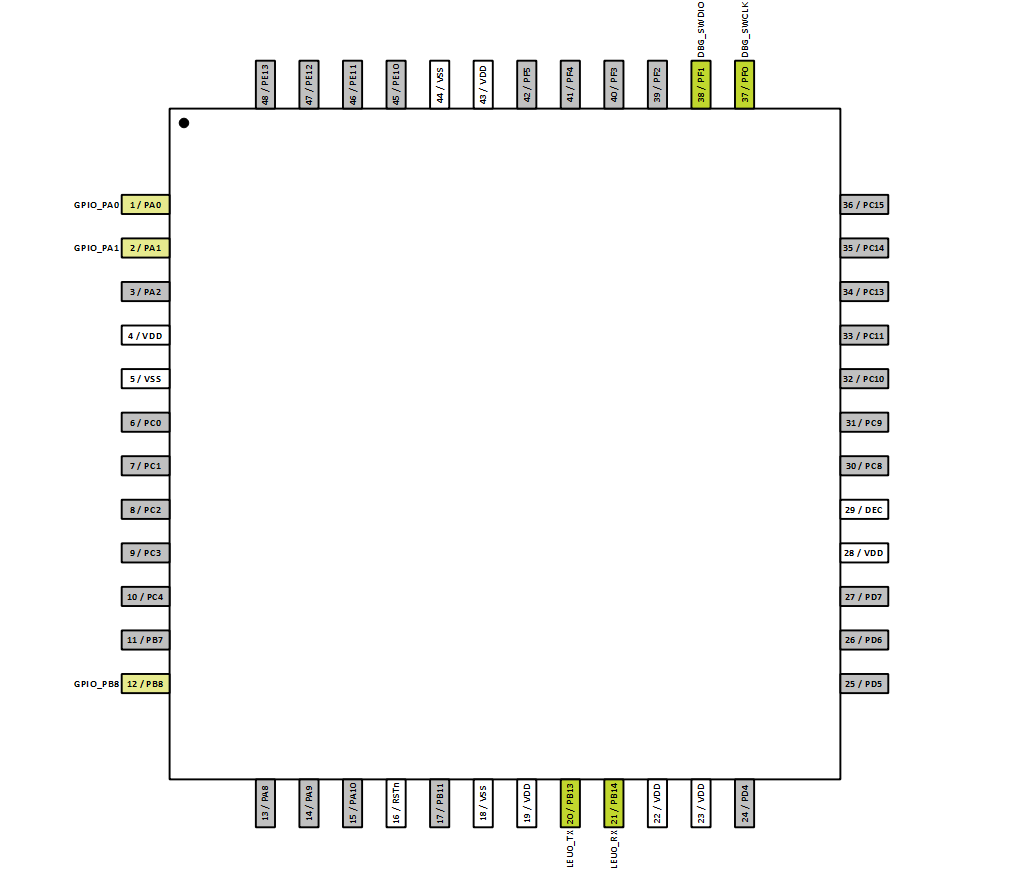
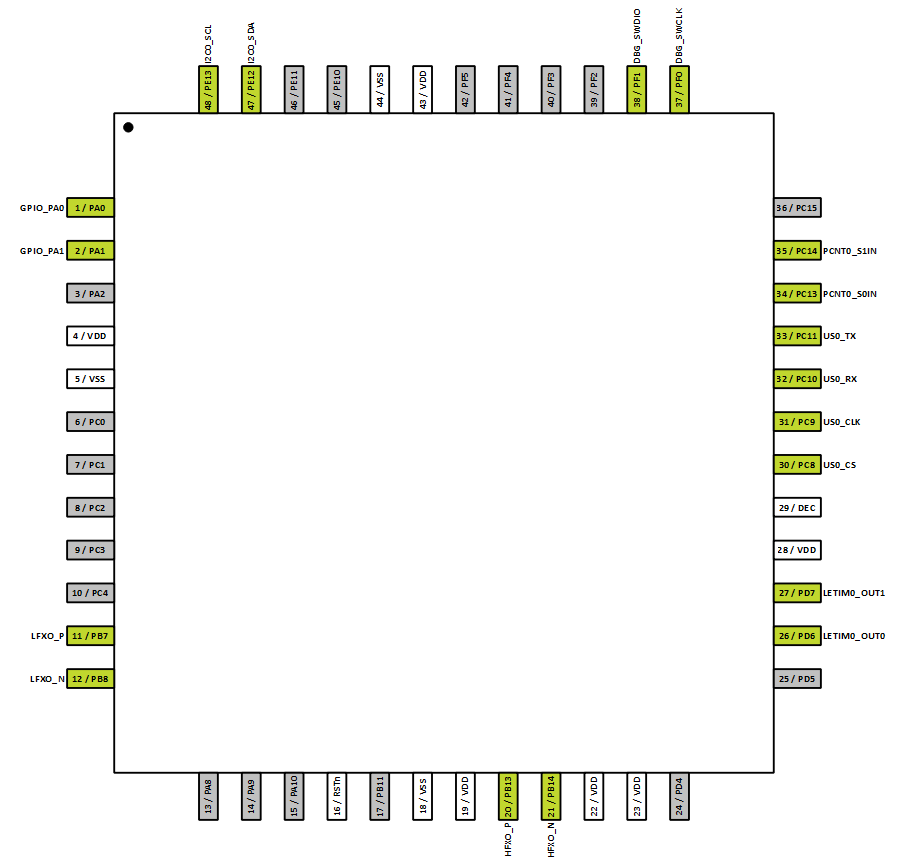
0.0.6   01.02.2013   nicraM   Clean up - HW design & PCB prototyping

Changed region(s): [[0.0308, 0.0, 0.9868, 1.0]]

diff --git a/ecoitouch.c b/ecoitouch.c
@@ -2,19 +2,8 @@
  *
  * 1.0.0  xx.xx.2013    nicraM    Official release. Rev A
  * * *
- * 0.6.0  xx.xx.2013    nicraM    Fixes and changes for LEUART
- * 0.5.0  xx.xx.2013    nicraM    Fixes and changes for RTC
- * 0.4.0  xx.xx.2013    nicraM    Fixes and changes for GPIO
- * 0.3.0  xx.xx.2013    nicraM    Fixes and changes for SysTick and VCMP
- *                                - SysTick removed since not available in
- *                                deep sleep. 
- * 0.2.0  xx.xx.2013    nicraM    Fixes and changes for sleep modes, event and
- *                                interrupt handlings
- * 0.1.0  xx.xx.2013    nicraM    Fixes and changes for clock and reset 
- *                                detection
- * * *
- * 0.0.7  xx.xx.2013    nicraM    
- * 0.0.6  xx.xx.2013    nicraM    LEUART configuration and functionality
+ * 0.1.0  xx.xx.2013    nicraM
+ * 0.0.6  01.02.2013    nicraM    Clean up - HW design & PCB prototyping
  * 0.0.5  29.01.2013    nicraM    RTC configuration - SysTick is not available
                                   in deep sleep So will be commented - later
                                   removed.
@@ -113,7 +102,9 @@ __IO uint32_t g_minutes = 0;
 /******************/
 /* EVENT HANDLERS */
 /******************/
-
+#ifdef __ICCARM__
+__ramfunc __STATIC_INLINE
+#endif
 static void RTC_EventHandler(void)
 {
     /* Clear RTC interrupt */
@@ -130,7 +121,6 @@ static void RTC_EventHandler(void)
 
     /* other usage */
 }
-
 
 
 #ifdef __ICCARM__
@@ -224,37 +214,6 @@ void GPIO_ODD_EventHandler(void)
 
 
 
-#ifdef __ICCARM__
-__ramfunc __STATIC_INLINE
-#endif
-void LEUART0_EventHandler(void)
-{
-    /* Clear XXX interrupt */
-    
-    /* Clear pending IRQ */
-    NVIC->ICPR[(uint32_t)PAGE0] |= (0 << (uint32_t)(LEUART0_IRQn & 0x1F));
-    
-    /* Event handling */
-
-}
-
-
-
-/******************************************************************************
-Function that disables enabled by default clock (HFRCO) and enables LFRCO
-******************************************************************************/
-#ifdef __ICCARM__
-__ramfunc __STATIC_INLINE
-#endif
-void enableLFRCO(void)
-{
-    CMU->OSCENCMD |= CMU_OSCENCMD_LFRCOEN;
-    while(!(CMU->STATUS & _CMU_STATUS_LFRCORDY_MASK));
-    CMU->CMD |= CMU_CMD_HFCLKSEL_LFRCO;
-    CMU->OSCENCMD |= CMU_OSCENCMD_HFRCODIS;
-}
-
-
 
 /***********************/
 /* INTERRUPT FUNCTIONS */ 
@@ -324,17 +283,25 @@ void GPIO_ODD_IRQHandler(void)
     
 }
 
-void LEUART0_IRQHandler(void)
-{
-    /* Clear XXX interrupt */
-    
-    /* Event handling */
-    
-}
 
 /*******************/
 /* LOCAL FUNCTIONS */
 /*******************/
+
+/******************************************************************************
+Function that disables enabled by default clock (HFRCO) and enables LFRCO
+******************************************************************************/
+#ifdef __ICCARM__
+__ramfunc __STATIC_INLINE
+#endif
+void enableLFRCO(void)
+{
+    CMU->OSCENCMD |= CMU_OSCENCMD_LFRCOEN;
+    while(!(CMU->STATUS & _CMU_STATUS_LFRCORDY_MASK));
+    CMU->CMD |= CMU_CMD_HFCLKSEL_LFRCO;
+    CMU->OSCENCMD |= CMU_OSCENCMD_HFRCODIS;
+}
+
 
 /******************************************************************************
  After reset uC is running on HFRCO(14MHz) - 2us startup time 
@@ -460,16 +427,6 @@ static void initVCMP(void)
 
 
 /******************************************************************************
-TODO:
-******************************************************************************/
-static void initLEUART(void)
-{
-    /* interrupt section */
-    
-    /* general configuration */
-}
-
-/******************************************************************************
  Base configuration of GPIO pins according to board design.
  NOTE:
    Inputs:
@@ -556,9 +513,6 @@ static void initNVIC(void)
 }
 
 
-
-
-
 /*****************/
 /* MAIN FUNCTION */
 /*****************/
@@ -577,9 +531,6 @@ int main(void)
 
     /* Voltage comparator initialization and configuration */
     initVCMP();
-
-    /* Low energy UART initialization and configuration */
-    initLEUART();
 
     /* General purpose IO initialization and configuration */
     initGPIO();
@@ -602,10 +553,6 @@ int main(void)
     if (!(GPIO->P[GPIO_PORT_A].DIN & (GPIO_MASK_PIN(GPIO_PIN_0))))
         while(1);
 
-
-
-
-
     while(1)
     {
         /* Wait for event - no NVIC used */
@@ -622,9 +569,6 @@ int main(void)
 
         if (NVIC->ISPR[(uint32_t)PAGE1] & (uint32_t)(VCMP_IRQn & 0x1F))
             VCMP_EventHandler();
-
-        if (NVIC->ISPR[(uint32_t)PAGE0] & (uint32_t)(LEUART0_IRQn & 0x1F))
-            LEUART0_EventHandler();
 
         if (NVIC->ISPR[(uint32_t)PAGE0] & (uint32_t)(GPIO_ODD_IRQn & 0x1F))
             GPIO_ODD_EventHandler();

diff --git a/README.md b/README.md
@@ -17,21 +17,21 @@
 *
 * #1 PCB should not be bigger then peltier and all components (uC, DC/DC 
 *    converter and other subcomponents should be in one PCB. PCB must have 
-*    external pins for debug/programming functionality (SWDIO and SWCLK),
-*    LEUART pins (Rx, Tx) and some optional pins also could be added 
-*    (eg. GPIO, I2C, etc).
+*    external pins for debug/programming functionality (SWDIO and SWCLK).
+*    As many as possible external poins should be on board.
 *   
 * #2 For system functionality and user interaction PCB should have two 
 *    micro buttons. One button for chip reset (BRST) and second for user 
 *    commands (BCOM) 
 *
-* #3 System should provide energy from TEG to uC and to storage. In case of
-*    lack power from TEG uC should switch to storage. In other hand power-on
-*    reset should be generrated.
+* #3 System should provide energy from TEG to uC and to storage.
+*    We will if this will be possible to change power source since LT chip
+*    provides PGOOD pin So it will not be possible to detect that voltage
+*    drops below some threshold - it just be cut off (0 or 3V)
 *
 * #4 Software should work mostly in sleep mode/deep sleep mode and required
 *    measurements should be done after wakeup - mode (1:500) triggered eg. by
-*    RTC, external interrupt (GPIO).
+*    RTC, external interrupt (GPIO)
 * 
 * #5 Reduce power consumption:
 *           - use [X]HFRCO(1-7 MHz) or [V]LFRCO(32kHz) depends on functionality
@@ -39,8 +39,8 @@
 *           - turn off all unused peripherals and use LE if needed
 *           - properly configure/disable GPIO for the best energy consumption
 *
-*           - VCMP (required) - analyze TEG and storage voltage 
-*           - LEUART (required) - data logging
-*           - SysTick  (optional)
-*           - WatchDog (optional)
+*           - VCMP (required) -> VCMP will be removed (point #3) 
+*           - LEUART (required) -> data logging - not needed in this stage
+*           - SysTick  (optional) -> doesn't work with deepsleep ;/ -> RTC
+*           - WatchDog (optional) -> not needed in this stage
 *           
